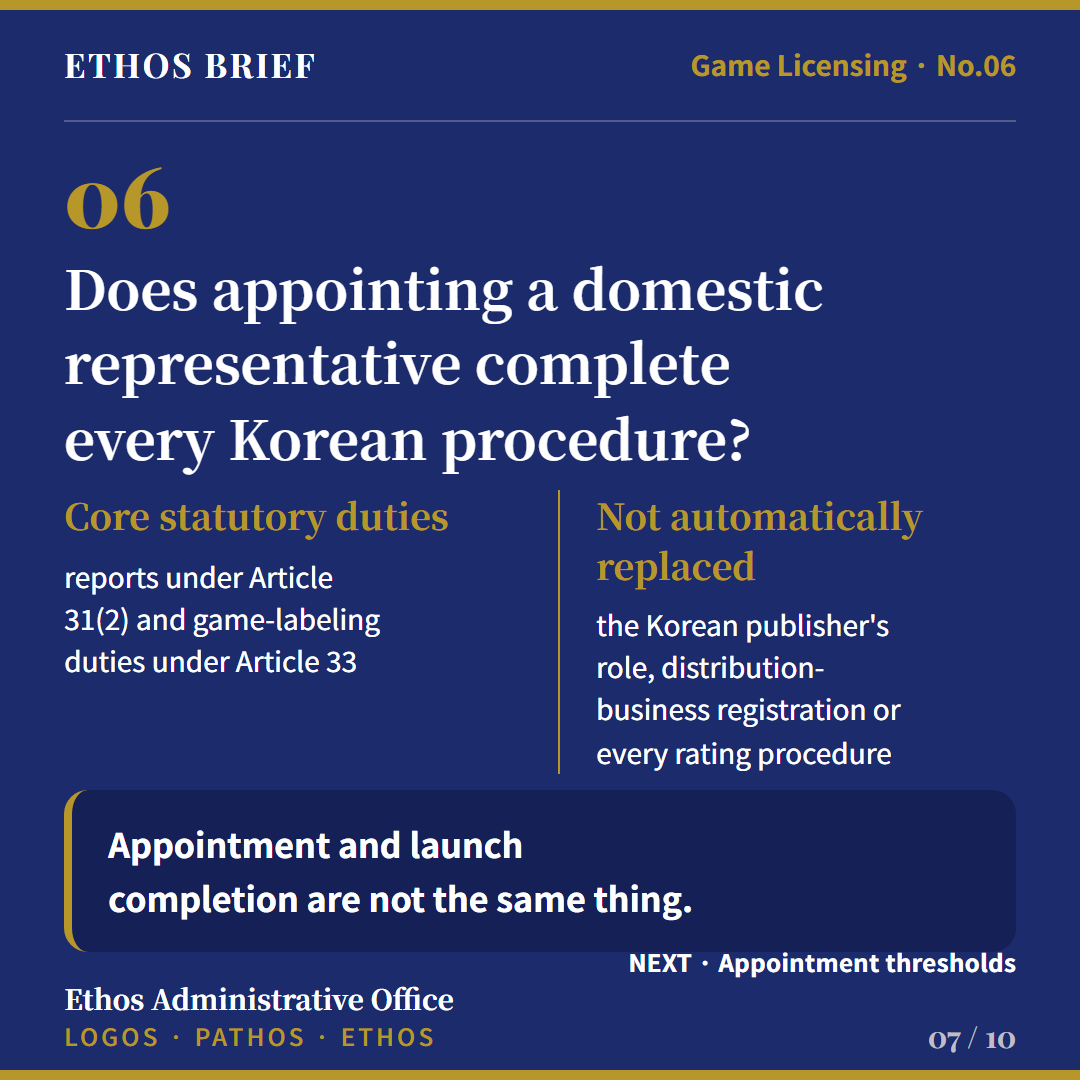
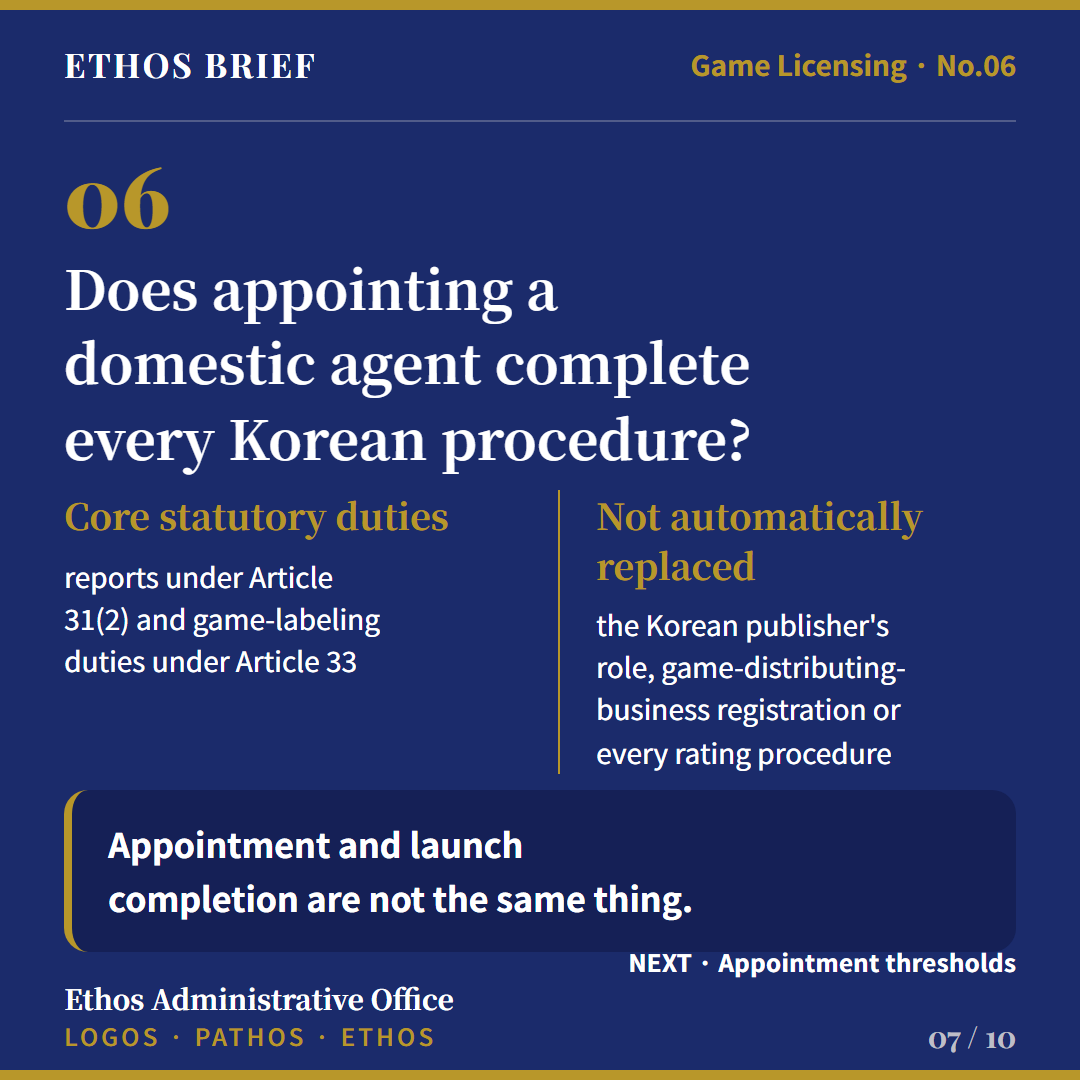
fix: enforce readable bilingual card typography

Changed region(s): [[0.3361, 0.2444, 0.7639, 0.3667], [0.0611, 0.3056, 0.3056, 0.3667], [0.6111, 0.6111, 0.825, 0.6417]]

diff --git a/content/GAME-OVERSEAS-06/en/card_03.html b/content/GAME-OVERSEAS-06/en/card_03.html
@@ -11,8 +11,8 @@
   <div class="hl" data-frame="line"></div>
   <div class="body">
     <div class="z-title" data-zone="title"><div class="kicker-num" data-decor>02</div><h2 class="h2" data-role="headline">Separate four roles before planning a Korean launch</h2></div>
-    <div class="z-main" data-zone="main"><div class="quad"><div class="quad-item"><div class="qt" data-role="label">① Overseas developer or publisher</div><div class="qd">owns the game or service rights</div></div><div class="quad-item"><div class="qt" data-role="label">② Korean publisher</div><div class="qd">handles Korean service and distribution</div></div><div class="quad-item"><div class="qt" data-role="label">③ Self-rating operator</div><div class="qd">platform designated to classify ratings</div></div><div class="quad-item"><div class="qt" data-role="label">④ Domestic representative</div><div class="qd">contact and compliance representative for qualifying overseas businesses</div></div></div></div>
-    <div class="z-take" data-zone="take"><div class="editorial-close" data-role="takeaway">A Korean publisher and a domestic representative are not the same role.</div></div>
+    <div class="z-main" data-zone="main"><div class="quad"><div class="quad-item"><div class="qt" data-role="subheading">① Overseas developer or publisher</div><div class="qd">owns the game or service rights</div></div><div class="quad-item"><div class="qt" data-role="subheading">② Korean publisher</div><div class="qd">handles Korean service and distribution</div></div><div class="quad-item"><div class="qt" data-role="subheading">③ Independent-rating business entity</div><div class="qd">platform designated to classify ratings</div></div><div class="quad-item"><div class="qt" data-role="subheading">④ Domestic agent</div><div class="qd">statutory contact and compliance agent for qualifying overseas businesses</div></div></div></div>
+    <div class="z-take" data-zone="take"><div class="editorial-close" data-role="takeaway">A Korean publisher and a domestic agent are not the same role.</div></div>
   </div>
   <div class="page-turn" data-role="note">NEXT · Publisher requirement</div>
   <div class="ftr"><div class="org" data-frame="org">Ethos Administrative Office</div><div class="tagl" data-frame="tagline">LOGOS · PATHOS · ETHOS</div><div class="pg" data-frame="page">03 / 10</div></div>

diff --git a/content/GAME-OVERSEAS-06/en/card_08.html b/content/GAME-OVERSEAS-06/en/card_08.html
@@ -10,8 +10,8 @@
   <div class="hdr"><span class="wm" data-frame="wordmark">ETHOS BRIEF</span><span class="sec" data-frame="section">Game Licensing · No.06</span></div>
   <div class="hl" data-frame="line"></div>
   <div class="body">
-    <div class="z-title" data-zone="title"><div class="kicker-num" data-decor>07</div><h2 class="h2" data-role="headline">Which overseas game businesses must appoint a domestic representative?</h2></div>
-    <div class="z-main" data-zone="main"><div class="thresholds"><div class="threshold"><div class="threshold-key" data-role="label">KRW 1tn</div><div class="threshold-copy">KRW 1 trillion or more in total revenue in the previous year</div></div><div class="threshold"><div class="threshold-key" data-role="label">1,000/day</div><div class="threshold-copy">A game with at least 1,000 average daily installs on mobile devices sold in Korea in the previous year</div></div><div class="threshold"><div class="threshold-key" data-role="label">Report order</div><div class="threshold-copy">A reporting request from the Minister over a serious risk to game-distribution order</div></div></div></div>
+    <div class="z-title" data-zone="title"><div class="kicker-num" data-decor>07</div><h2 class="h2" data-role="headline">Which overseas game businesses must appoint a domestic agent?</h2></div>
+    <div class="z-main" data-zone="main"><div class="thresholds"><div class="threshold"><div class="threshold-key" data-role="label">KRW 1tn</div><div class="threshold-copy">Total revenue of at least KRW 1 trillion in the previous year</div></div><div class="threshold"><div class="threshold-key" data-role="label">1,000/day</div><div class="threshold-copy">At least 1,000 average daily installs in the previous year on mobile devices sold in Korea</div></div><div class="threshold"><div class="threshold-key" data-role="label">Report order</div><div class="threshold-copy">A ministerial reporting request over a serious risk to game-distribution order</div></div></div></div>
     <div class="z-take" data-zone="take"><div class="editorial-close" data-role="takeaway">Failure to appoint when required may result in an administrative fine of up to KRW 20 million.</div></div>
   </div>
   <div class="page-turn" data-role="note">NEXT · Six launch questions</div>

diff --git a/content/GAME-OVERSEAS-06/ko/card_03.html b/content/GAME-OVERSEAS-06/ko/card_03.html
@@ -11,7 +11,7 @@
   <div class="hl" data-frame="line"></div>
   <div class="body">
     <div class="z-title" data-zone="title"><div class="kicker-num" data-decor>02</div><h2 class="h2" data-role="headline">한국 출시 전에 네 주체부터 구분하세요</h2></div>
-    <div class="z-main" data-zone="main"><div class="quad"><div class="quad-item"><div class="qt" data-role="label">① 해외 개발사·퍼블리셔</div><div class="qd">게임과 서비스 권한을 보유</div></div><div class="quad-item"><div class="qt" data-role="label">② 국내 퍼블리셔</div><div class="qd">한국 서비스·유통을 담당</div></div><div class="quad-item"><div class="qt" data-role="label">③ 자체등급분류사업자</div><div class="qd">법에 따라 등급을 분류하는 플랫폼</div></div><div class="quad-item"><div class="qt" data-role="label">④ 국내대리인</div><div class="qd">일정 해외 사업자의 연락·의무이행 주체</div></div></div></div>
+    <div class="z-main" data-zone="main"><div class="quad"><div class="quad-item"><div class="qt" data-role="subheading">① 해외 개발사·퍼블리셔</div><div class="qd">게임과 서비스 권한을 보유</div></div><div class="quad-item"><div class="qt" data-role="subheading">② 국내 퍼블리셔</div><div class="qd">한국 서비스·유통을 담당</div></div><div class="quad-item"><div class="qt" data-role="subheading">③ 자체등급분류사업자</div><div class="qd">법에 따라 등급을 분류하는 플랫폼</div></div><div class="quad-item"><div class="qt" data-role="subheading">④ 국내대리인</div><div class="qd">일정 해외 사업자의 연락·의무이행 주체</div></div></div></div>
     <div class="z-take" data-zone="take"><div class="editorial-close" data-role="takeaway">국내 퍼블리셔와 국내대리인은 같은 역할이 아닙니다.</div></div>
   </div>
   <div class="page-turn" data-role="note">다음 · 국내 퍼블리셔가 항상 필요한지</div>

diff --git a/content/GAME-OVERSEAS-06/en/card_07.html b/content/GAME-OVERSEAS-06/en/card_07.html
@@ -10,8 +10,8 @@
   <div class="hdr"><span class="wm" data-frame="wordmark">ETHOS BRIEF</span><span class="sec" data-frame="section">Game Licensing · No.06</span></div>
   <div class="hl" data-frame="line"></div>
   <div class="body">
-    <div class="z-title" data-zone="title"><div class="kicker-num" data-decor>06</div><h2 class="h2" data-role="headline">Does appointing a domestic representative complete every Korean procedure?</h2></div>
-    <div class="z-main" data-zone="main"><div class="split"><div class="split-col"><div class="split-title" data-role="label">Core statutory duties</div><div class="split-copy">reports under Article 31(2) and game-labeling duties under Article 33</div></div><div class="split-col"><div class="split-title" data-role="label">Not automatically replaced</div><div class="split-copy">the Korean publisher&#x27;s role, distribution-business registration or every rating procedure</div></div></div></div>
+    <div class="z-title" data-zone="title"><div class="kicker-num" data-decor>06</div><h2 class="h2" data-role="headline">Does appointing a domestic agent complete every Korean procedure?</h2></div>
+    <div class="z-main" data-zone="main"><div class="split"><div class="split-col"><div class="split-title" data-role="subheading">Core statutory duties</div><div class="split-copy">reports under Article 31(2) and game-labeling duties under Article 33</div></div><div class="split-col"><div class="split-title" data-role="subheading">Not automatically replaced</div><div class="split-copy">the Korean publisher&#x27;s role, game-distributing-business registration or every rating procedure</div></div></div></div>
     <div class="z-take" data-zone="take"><div class="take" data-role="takeaway">Appointment and launch completion are not the same thing.</div></div>
   </div>
   <div class="page-turn" data-role="note">NEXT · Appointment thresholds</div>

diff --git a/content/GAME-OVERSEAS-06/ko/card_10.html b/content/GAME-OVERSEAS-06/ko/card_10.html
@@ -11,7 +11,7 @@
   <div class="hl" data-frame="line"></div>
   <div class="body">
     <div class="z-title" data-zone="title"><div class="kicker-num" data-decor>09</div><h2 class="h2" data-role="headline">직접 준비할 수 있는 경우, 함께 검토해야 하는 경우</h2></div>
-    <div class="z-main" data-zone="main"><div class="split"><div class="split-col"><div class="split-title" data-role="label">직접 준비 가능성이 높은 경우</div><div class="split-copy">기존 글로벌 서비스, 하나의 자체등급분류 플랫폼, 명확한 등급·유통 구조</div></div><div class="split-col"><div class="split-title" data-role="label">종합 검토가 필요한 경우</div><div class="split-copy">국내 퍼블리셔 계약, 여러 플랫폼 동시 출시, 청소년이용불가 가능성, 확률형 아이템·유료재화·복잡한 BM</div></div></div></div>
+    <div class="z-main" data-zone="main"><div class="split"><div class="split-col"><div class="split-title" data-role="subheading">직접 준비 가능성이 높은 경우</div><div class="split-copy">기존 글로벌 서비스, 하나의 자체등급분류 플랫폼, 명확한 등급·유통 구조</div></div><div class="split-col"><div class="split-title" data-role="subheading">종합 검토가 필요한 경우</div><div class="split-copy">국내 퍼블리셔 계약, 여러 플랫폼 동시 출시, 청소년이용불가 가능성, 확률형 아이템·유료재화·복잡한 BM</div></div></div></div>
     <div class="z-take" data-zone="take"><div class="take" data-role="takeaway">무료 검토를 통해 실제 서비스 구조와 계약관계에서 가능한 방식을 확인할 수 있습니다.</div></div>
   </div>
   

diff --git a/content/GAME-OVERSEAS-06/ko/card_05.html b/content/GAME-OVERSEAS-06/ko/card_05.html
@@ -11,7 +11,7 @@
   <div class="hl" data-frame="line"></div>
   <div class="body">
     <div class="z-title" data-zone="title"><div class="kicker-num" data-decor>04</div><h2 class="h2" data-role="headline">해외게임 특례와 플랫폼 등급은 자동으로 이어지지 않습니다</h2></div>
-    <div class="z-main" data-zone="main"><div class="rule-list"><div class="rule-item"><div class="rule-key" data-role="label">제21조의5</div><div class="rule-copy">청소년이용불가 게임과 일부 게임제공업용 게임은 해외게임물 이용제공 특례에서 제외</div></div><div class="rule-item"><div class="rule-key" data-role="label">제21조의4</div><div class="rule-copy">한 자체등급분류사업자가 분류한 게임을 다른 자체등급분류사업자가 유통하면 새 등급분류가 필요</div></div></div></div>
+    <div class="z-main" data-zone="main"><div class="rule-list"><div class="rule-item"><div class="rule-key" data-role="subheading">제21조의5</div><div class="rule-copy">청소년이용불가 게임과 일부 게임제공업용 게임은 해외게임물 이용제공 특례에서 제외</div></div><div class="rule-item"><div class="rule-key" data-role="subheading">제21조의4</div><div class="rule-copy">한 자체등급분류사업자가 분류한 게임을 다른 자체등급분류사업자가 유통하면 새 등급분류가 필요</div></div></div></div>
     <div class="z-take" data-zone="take"><div class="editorial-close" data-role="takeaway">유통 경로와 예상 등급을 함께 확인하세요.</div></div>
   </div>
   <div class="page-turn" data-role="note">다음 · 국내 퍼블리셔가 들어오면 실제 업무를 확인</div>

diff --git a/content/GAME-OVERSEAS-06/ko/card_04.html b/content/GAME-OVERSEAS-06/ko/card_04.html
@@ -11,7 +11,7 @@
   <div class="hl" data-frame="line"></div>
   <div class="body">
     <div class="z-title" data-zone="title"><div class="kicker-num" data-decor>03</div><h2 class="h2" data-role="headline">해외 게임이면 국내 퍼블리셔가 없어도 될까요?</h2></div>
-    <div class="z-main" data-zone="main"><div class="split"><div class="split-col"><div class="split-title" data-role="label">가능한 구조</div><div class="split-copy">글로벌 서비스에 한국 이용을 추가하고, 자체등급분류사업자가 법정 요건에 따라 제공</div></div><div class="split-col"><div class="split-title" data-role="label">별도 검토가 필요한 구조</div><div class="split-copy">처음부터 한국을 핵심 시장으로 삼아 국내 전용 서비스와 계약을 설계</div></div></div></div>
+    <div class="z-main" data-zone="main"><div class="split"><div class="split-col"><div class="split-title" data-role="subheading">가능한 구조</div><div class="split-copy">글로벌 서비스에 한국 이용을 추가하고, 자체등급분류사업자가 법정 요건에 따라 제공</div></div><div class="split-col"><div class="split-title" data-role="subheading">별도 검토가 필요한 구조</div><div class="split-copy">처음부터 한국을 핵심 시장으로 삼아 국내 전용 서비스와 계약을 설계</div></div></div></div>
     <div class="z-take" data-zone="take"><div class="take" data-role="takeaway">외국에서 만들었다는 사실만으로 제21조의5 특례가 자동 적용되지는 않습니다.</div></div>
   </div>
   <div class="page-turn" data-role="note">다음 · 플랫폼이 바뀔 때 등급효력 확인</div>

diff --git a/content/GAME-OVERSEAS-06/en/card_10.html b/content/GAME-OVERSEAS-06/en/card_10.html
@@ -11,7 +11,7 @@
   <div class="hl" data-frame="line"></div>
   <div class="body">
     <div class="z-title" data-zone="title"><div class="kicker-num" data-decor>09</div><h2 class="h2" data-role="headline">What you may prepare directly—and what needs integrated review</h2></div>
-    <div class="z-main" data-zone="main"><div class="split"><div class="split-col"><div class="split-title" data-role="label">More suitable for direct preparation</div><div class="split-copy">an existing global service, one self-rating platform and a clear rating and distribution structure</div></div><div class="split-col"><div class="split-title" data-role="label">Needs integrated review</div><div class="split-copy">a Korean publishing agreement, multi-platform launch, possible adult-only rating, random items, paid currency or a complex business model</div></div></div></div>
+    <div class="z-main" data-zone="main"><div class="split"><div class="split-col"><div class="split-title" data-role="subheading">More suitable for direct preparation</div><div class="split-copy">an existing global service, one independent-rating platform and a clear rating and distribution structure</div></div><div class="split-col"><div class="split-title" data-role="subheading">Needs integrated review</div><div class="split-copy">a Korean publishing agreement, multi-platform launch, possible adult-only rating, random items, paid currency or a complex business model</div></div></div></div>
     <div class="z-take" data-zone="take"><div class="take" data-role="takeaway">A free review can help confirm what is workable for your actual service structure and contracts.</div></div>
   </div>
   

diff --git a/content/GAME-OVERSEAS-06/en/card_02.html b/content/GAME-OVERSEAS-06/en/card_02.html
@@ -11,7 +11,7 @@
   <div class="hl" data-frame="line"></div>
   <div class="body">
     <div class="z-title" data-zone="title"><div class="kicker-num" data-decor>01</div><h2 class="h2" data-role="headline">Does an overseas server mean no Korean rating review?</h2></div>
-    <div class="z-main" data-zone="main"><div class="authority-panel"><div class="authority-label" data-role="label">Supreme Court of Korea · Case No. 2008Do3970 · Oct. 23, 2008</div><div class="authority-text">The Court held that, unless a statutory exception applies, the server&#x27;s location in or outside Korea does not change the rating requirement.</div><div class="authority-note" data-role="note">Current self-rating and overseas-game provisions mean the ruling should not be applied mechanically to every launch.</div></div></div>
+    <div class="z-main" data-zone="main"><div class="authority-panel"><div class="authority-label" data-role="label">Supreme Court of Korea · Case No. 2008Do3970 · Oct. 23, 2008</div><div class="authority-text">The Court held that, unless a statutory exception applies, the server&#x27;s location in or outside Korea does not change the rating requirement.</div><div class="authority-note" data-role="note">Current independent rating classification and overseas-game provisions mean the ruling should not be applied mechanically to every launch.</div></div></div>
     <div class="z-take" data-zone="take"><div class="editorial-close" data-role="takeaway">An overseas server is not a safe reason to skip the Korean-law analysis.</div></div>
   </div>
   <div class="page-turn" data-role="note">NEXT · Separate the four roles first</div>

diff --git a/content/GAME-OVERSEAS-06/en/card_04.html b/content/GAME-OVERSEAS-06/en/card_04.html
@@ -11,7 +11,7 @@
   <div class="hl" data-frame="line"></div>
   <div class="body">
     <div class="z-title" data-zone="title"><div class="kicker-num" data-decor>03</div><h2 class="h2" data-role="headline">Does every overseas game need a Korean publisher?</h2></div>
-    <div class="z-main" data-zone="main"><div class="split"><div class="split-col"><div class="split-title" data-role="label">Potential overseas-game route</div><div class="split-copy">an existing global service adds Korea through a self-rating operator under the statutory conditions</div></div><div class="split-col"><div class="split-title" data-role="label">Separate review needed</div><div class="split-copy">Korea is a core market from the outset, with a Korean-exclusive service and local contract structure</div></div></div></div>
+    <div class="z-main" data-zone="main"><div class="split"><div class="split-col"><div class="split-title" data-role="subheading">Potential overseas-game route</div><div class="split-copy">an existing global service adds Korea through an independent-rating business entity under the statutory conditions</div></div><div class="split-col"><div class="split-title" data-role="subheading">Separate review needed</div><div class="split-copy">Korea is a core market from the outset, with a Korean-exclusive service and local contract structure</div></div></div></div>
     <div class="z-take" data-zone="take"><div class="take" data-role="takeaway">Being developed overseas does not automatically make Article 21-5 applicable.</div></div>
   </div>
   <div class="page-turn" data-role="note">NEXT · Check ratings across platforms</div>

diff --git a/content/GAME-OVERSEAS-06/en/card_05.html b/content/GAME-OVERSEAS-06/en/card_05.html
@@ -11,7 +11,7 @@
   <div class="hl" data-frame="line"></div>
   <div class="body">
     <div class="z-title" data-zone="title"><div class="kicker-num" data-decor>04</div><h2 class="h2" data-role="headline">Overseas-game exceptions and platform ratings do not carry over automatically</h2></div>
-    <div class="z-main" data-zone="main"><div class="rule-list"><div class="rule-item"><div class="rule-key" data-role="label">Article 21-5</div><div class="rule-copy">adult-only games and games supplied to certain offline game businesses are outside this overseas-game route</div></div><div class="rule-item"><div class="rule-key" data-role="label">Article 21-4</div><div class="rule-copy">another self-rating operator must newly rate a game before distributing it</div></div></div></div>
+    <div class="z-main" data-zone="main"><div class="rule-list"><div class="rule-item"><div class="rule-key" data-role="subheading">Article 21-5</div><div class="rule-copy">adult-only games and games supplied to certain offline game businesses are outside this overseas-game route</div></div><div class="rule-item"><div class="rule-key" data-role="subheading">Article 21-4</div><div class="rule-copy">another independent-rating business entity must newly rate a game before distributing it</div></div></div></div>
     <div class="z-take" data-zone="take"><div class="editorial-close" data-role="takeaway">Review the distribution route together with the expected rating.</div></div>
   </div>
   <div class="page-turn" data-role="note">NEXT · Look at a Korean publisher&#x27;s actual work</div>

diff --git a/content/GAME-OVERSEAS-06/ko/card_07.html b/content/GAME-OVERSEAS-06/ko/card_07.html
@@ -11,7 +11,7 @@
   <div class="hl" data-frame="line"></div>
   <div class="body">
     <div class="z-title" data-zone="title"><div class="kicker-num" data-decor>06</div><h2 class="h2" data-role="headline">국내대리인을 지정하면 한국 절차가 모두 끝날까요?</h2></div>
-    <div class="z-main" data-zone="main"><div class="split"><div class="split-col"><div class="split-title" data-role="label">법정 핵심 업무</div><div class="split-copy">제31조제2항의 보고, 제33조의 게임물 표시의무 이행</div></div><div class="split-col"><div class="split-title" data-role="label">그 자체로 대신하지 않는 것</div><div class="split-copy">국내 퍼블리셔의 역할, 게임배급업 등록, 모든 등급분류 절차</div></div></div></div>
+    <div class="z-main" data-zone="main"><div class="split"><div class="split-col"><div class="split-title" data-role="subheading">법정 핵심 업무</div><div class="split-copy">제31조제2항의 보고, 제33조의 게임물 표시의무 이행</div></div><div class="split-col"><div class="split-title" data-role="subheading">그 자체로 대신하지 않는 것</div><div class="split-copy">국내 퍼블리셔의 역할, 게임배급업 등록, 모든 등급분류 절차</div></div></div></div>
     <div class="z-take" data-zone="take"><div class="take" data-role="takeaway">국내대리인 지정과 한국 출시 절차 완료는 같은 말이 아닙니다.</div></div>
   </div>
   <div class="page-turn" data-role="note">다음 · 지정 대상 기준 확인</div>
